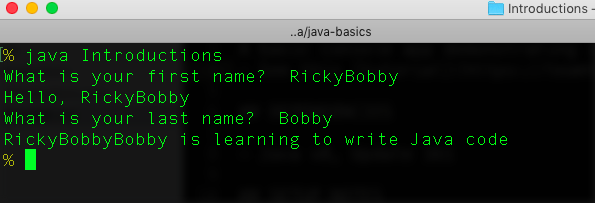
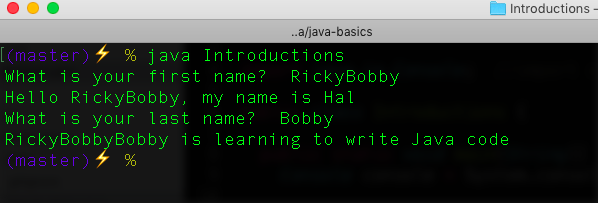
Updated text and image

diff --git a/Introductions.java b/Introductions.java
@@ -8,10 +8,9 @@ public class Introductions {
   public static void main(String[] args) {
     Console console = System.console();
   
-    console.printf("What is your first name?  ");
     String firstName = console.readLine("What is your first name?  ");
 
-    console.printf("Hello, %s\n", firstName);
+    console.printf("Hello %s, my name is Hal\n", firstName);
     
     String lastName = console.readLine("What is your last name?  ");
 

diff --git a/README.md b/README.md
@@ -1,4 +1,4 @@
-# Introductions
+# Java Introductions
 
 A basic Java console app demonstrating input/output via the console.
 - See this [tutorial](https://teamtreehouse.com/library/java-basics).
